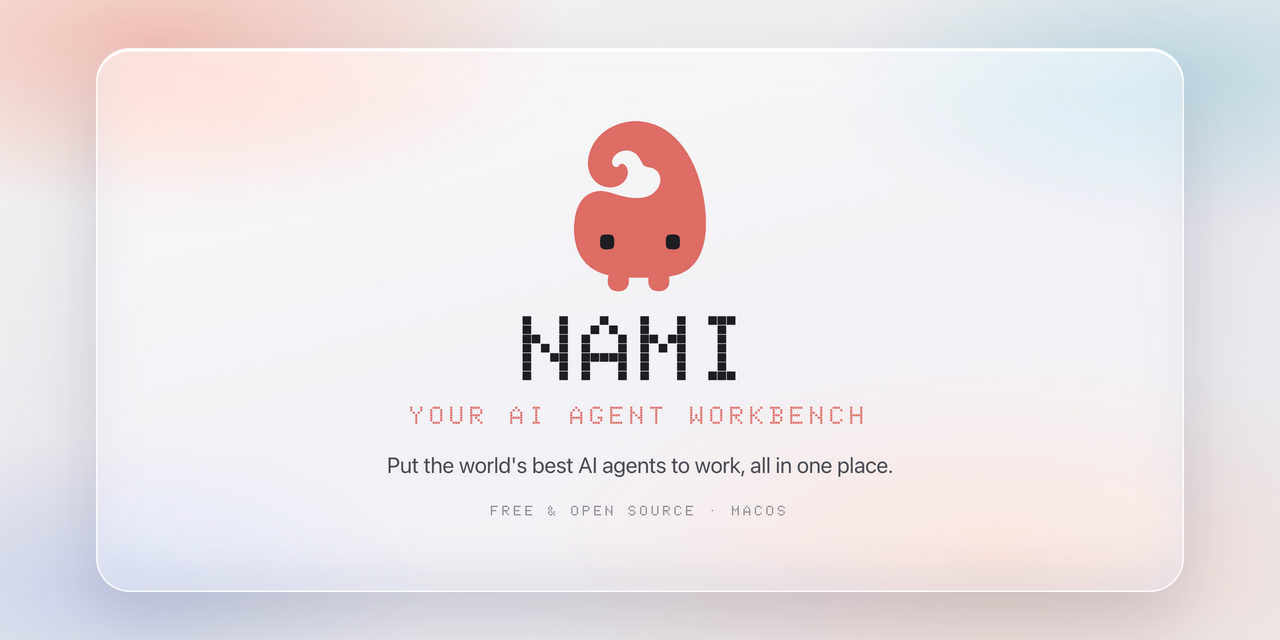
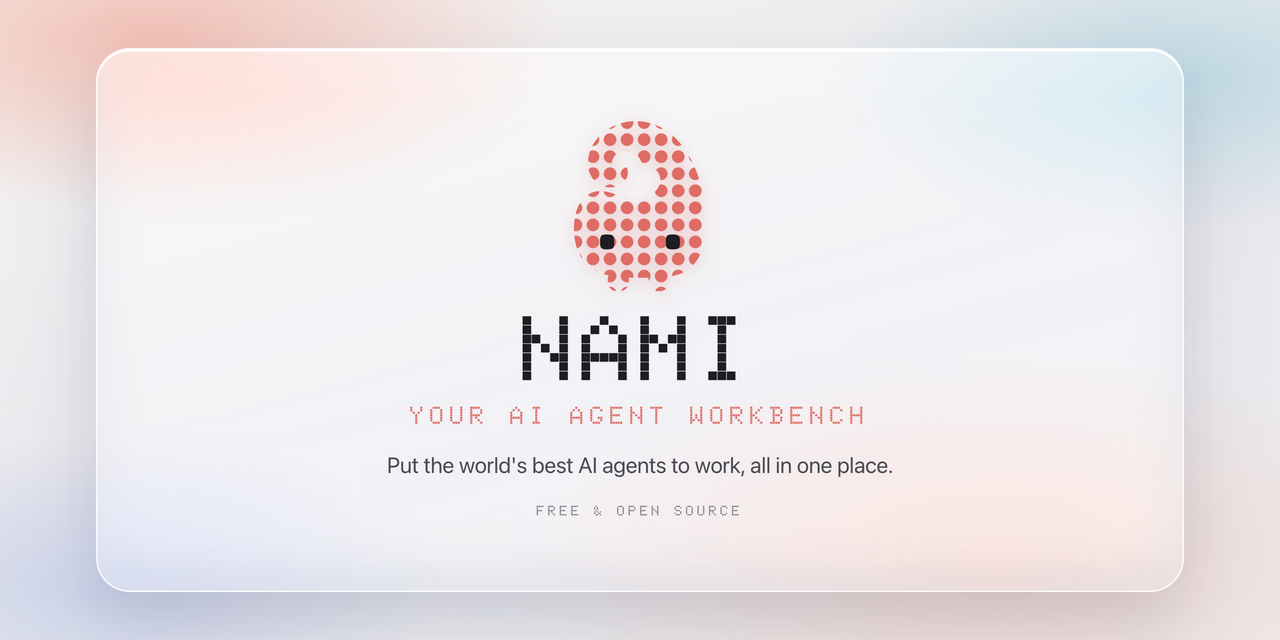
Dot the mascot, drop the platform tag
Two things were off on the card. The mascot was a solid coral blob sitting
under dotted type, which read as two logos rather than one system — the glass
theme already answers this, swapping the body fill to url(#nami-dot-lattice)
so the silhouette is built from the same grid the Doto wordmark is. Same
pattern here, same drop shadow the topbar gives it.

And the footer said 'Free & open source · macOS'. The platform is not what
anyone needs from a share card, and hanging it off the end read as an
afterthought. Free and open source stands on its own.

Claude-Session: https://claude.ai/code/session_012y3JR9DEo7gC2RYXN9Bop6

Changed region(s): [[0.4375, 0.1875, 0.5625, 0.4688], [0.375, 0.7812, 0.625, 0.8125]]

diff --git a/docs/media/social-card.html b/docs/media/social-card.html
@@ -54,7 +54,15 @@
     position: relative; display: flex; flex-direction: column;
     align-items: center; text-align: center;
   }
-  .mascot { width: 132px; height: auto; display: block; margin-bottom: 14px; }
+  .mascot {
+    width: 132px; height: auto; display: block; margin-bottom: 14px;
+    /* the same coral lift the glass topbar gives it */
+    filter: drop-shadow(0 3px 7px rgba(239, 100, 97, 0.35));
+  }
+  /* The body is dots, not a solid fill — theme-glass.css swaps the mascot to
+     url(#nami-dot-lattice) so the silhouette is built from the same grid the
+     Doto wordmark is. A solid blob beside dotted type reads as two logos. */
+  .mascot .nami-body { fill: url(#nami-dot-lattice); }
   .word {
     font-family: 'Doto', monospace; font-weight: 900; font-size: 92px;
     letter-spacing: 0.04em; text-transform: uppercase; color: #1d1d22; line-height: 0.94;
@@ -81,7 +89,14 @@
 <div class="in">
   <!-- the wave blob, same paths the app's topbar draws -->
   <svg class="mascot" viewBox="474 285 1084 1400" aria-hidden="true">
-    <g transform="translate(0,2048) scale(1,-1)" fill="#ef6461">
+    <defs>
+      <!-- same lattice the app defines inline in app.js: one dot per 140 units,
+           r=52, which lands ~8 across the body at the size this card renders -->
+      <pattern id="nami-dot-lattice" width="140" height="140" patternUnits="userSpaceOnUse">
+        <circle cx="70" cy="70" r="52" fill="#ef6461"/>
+      </pattern>
+    </defs>
+    <g class="nami-body" transform="translate(0,2048) scale(1,-1)" fill="#ef6461">
       <path d="M962 1762 c-201 -12 -357 -148 -373 -324 -12 -132 86 -235 207 -219
       86 12 143 93 112 160 -16 34 -52 45 -65 19 -10 -20 -40 -17 -51 6 -20 38 18
       94 74 111 70 20 128 -11 162 -88 12 -30 28 -41 62 -45 98 -11 126 -123 50
@@ -101,5 +116,5 @@
   <div class="word">Nami</div>
   <div class="tag">Your AI Agent Workbench</div>
   <div class="sub">Put the world's best AI agents to work, all in one place.</div>
-  <div class="foot">Free &amp; open source · macOS</div>
+  <div class="foot">Free &amp; open source</div>
 </div>
